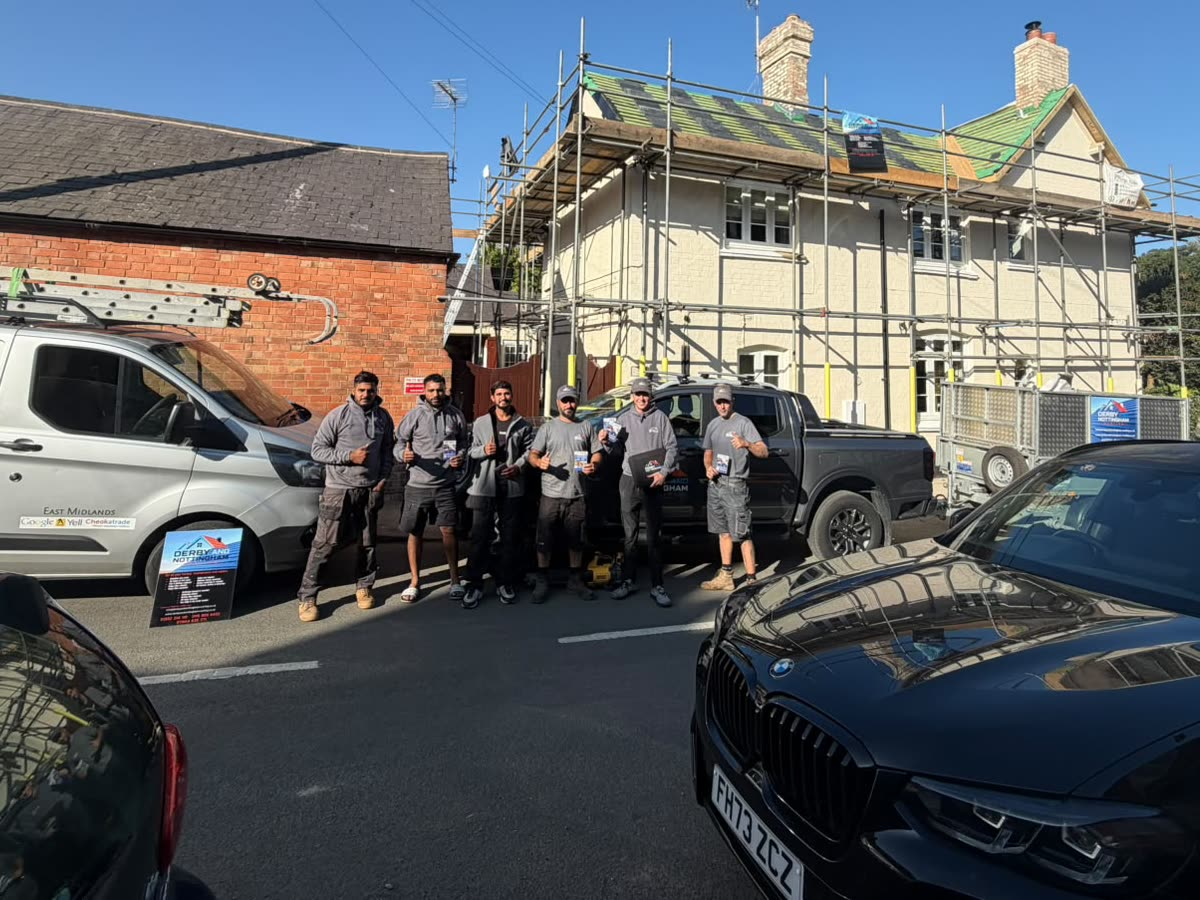
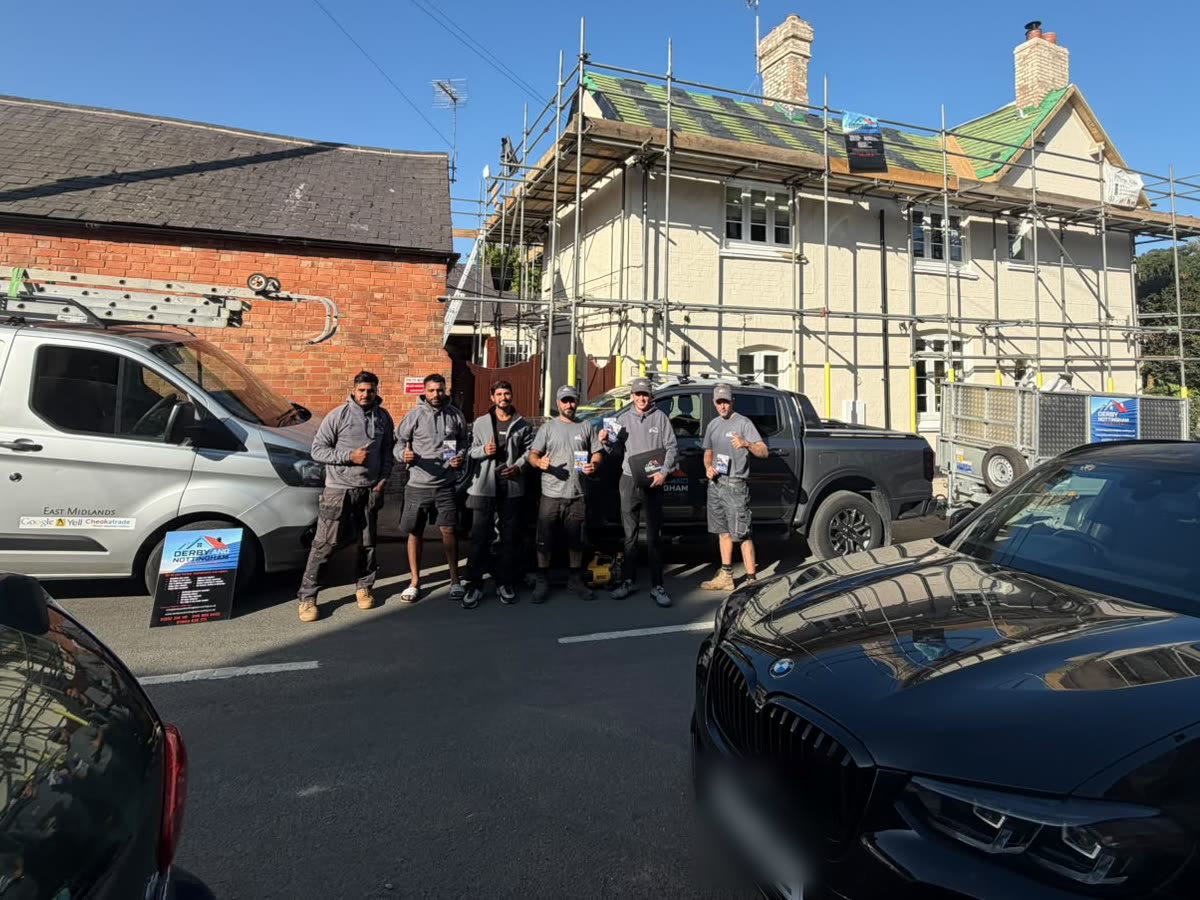
D&N: blur the plate in team.jpg, three new LP gallery photos
Source side of the deploy commits. lp.config.js gallery now points at
work-hip / work-drone / work-ridge, cropped 4:3 by hand from the portrait
originals in assets/.

Changed region(s): [[0.555, 0.84, 0.6783, 0.9956]]

diff --git a/Claude v3/Derby and Nottingham Roofing/lp/roof-check/index.html b/Claude v3/Derby and Nottingham Roofing/lp/roof-check/index.html
@@ -126,7 +126,7 @@ height="0" width="0" style="display:none;visibility:hidden"></iframe></noscript>
 </div></section>
 <section class="lp-sec"><div class="lp-wrap">
   <div class="lp-head-c"><span class="lp-eyebrow">Our work</span><h2>Recent roofs</h2></div>
-  <div class="lp-grid"><figure><img src="../../assets/img/crew-at-work.jpg" alt="Natural slate - our team on site" loading="lazy"><figcaption>Natural slate · our team on site</figcaption></figure><figure><img src="../../assets/img/craftsmanship.jpg" alt="New battens and membrane - full strip" loading="lazy"><figcaption>New battens &amp; membrane · full strip</figcaption></figure><figure><img src="../../assets/img/guarantee-2.jpg" alt="Job complete - written guarantee handed over" loading="lazy"><figcaption>Job complete · written guarantee handed over</figcaption></figure><figure><img src="../../assets/img/g1.jpg" alt="Full re-roof - natural slate" loading="lazy"><figcaption>Full re-roof · natural slate</figcaption></figure><figure><img src="../../assets/img/g5.jpg" alt="Clay tile - new ridge and hips" loading="lazy"><figcaption>Clay tile · new ridge &amp; hips</figcaption></figure><figure><img src="../../assets/img/work-1.jpg" alt="New slate roof - eaves and valley" loading="lazy"><figcaption>New slate roof · eaves &amp; valley</figcaption></figure></div>
+  <div class="lp-grid"><figure><img src="../../assets/img/crew-at-work.jpg" alt="Natural slate - our team on site" loading="lazy"><figcaption>Natural slate · our team on site</figcaption></figure><figure><img src="../../assets/img/work-hip.jpg" alt="Hipped roof - grey tiles and new ridge" loading="lazy"><figcaption>Hipped roof · grey tiles &amp; new ridge</figcaption></figure><figure><img src="../../assets/img/work-drone.jpg" alt="Completed re-roof - new clay tiles" loading="lazy"><figcaption>Completed re-roof · new clay tiles</figcaption></figure><figure><img src="../../assets/img/g1.jpg" alt="Full re-roof - natural slate" loading="lazy"><figcaption>Full re-roof · natural slate</figcaption></figure><figure><img src="../../assets/img/work-ridge.jpg" alt="Full re-roof - new tiles and ridge system" loading="lazy"><figcaption>Full re-roof · new tiles &amp; ridge system</figcaption></figure><figure><img src="../../assets/img/work-1.jpg" alt="New slate roof - eaves and valley" loading="lazy"><figcaption>New slate roof · eaves &amp; valley</figcaption></figure></div>
 </div></section>
 <section class="lp-sec lp-alt"><div class="lp-wrap lp-2col">
   <div class="lp-shot"><img src="../../assets/img/team.jpg" alt="The Derby &amp; Nottingham Roofing team on site" loading="lazy"></div>

diff --git a/Claude v3/Derby and Nottingham Roofing/lp/flat-roofing/index.html b/Claude v3/Derby and Nottingham Roofing/lp/flat-roofing/index.html
@@ -133,7 +133,7 @@ height="0" width="0" style="display:none;visibility:hidden"></iframe></noscript>
 </div></section>
 <section class="lp-sec"><div class="lp-wrap">
   <div class="lp-head-c"><span class="lp-eyebrow">Our work</span><h2>Recent roofs</h2></div>
-  <div class="lp-grid"><figure><img src="../../assets/img/crew-at-work.jpg" alt="Natural slate - our team on site" loading="lazy"><figcaption>Natural slate · our team on site</figcaption></figure><figure><img src="../../assets/img/craftsmanship.jpg" alt="New battens and membrane - full strip" loading="lazy"><figcaption>New battens &amp; membrane · full strip</figcaption></figure><figure><img src="../../assets/img/guarantee-2.jpg" alt="Job complete - written guarantee handed over" loading="lazy"><figcaption>Job complete · written guarantee handed over</figcaption></figure><figure><img src="../../assets/img/g1.jpg" alt="Full re-roof - natural slate" loading="lazy"><figcaption>Full re-roof · natural slate</figcaption></figure><figure><img src="../../assets/img/g5.jpg" alt="Clay tile - new ridge and hips" loading="lazy"><figcaption>Clay tile · new ridge &amp; hips</figcaption></figure><figure><img src="../../assets/img/work-1.jpg" alt="New slate roof - eaves and valley" loading="lazy"><figcaption>New slate roof · eaves &amp; valley</figcaption></figure></div>
+  <div class="lp-grid"><figure><img src="../../assets/img/crew-at-work.jpg" alt="Natural slate - our team on site" loading="lazy"><figcaption>Natural slate · our team on site</figcaption></figure><figure><img src="../../assets/img/work-hip.jpg" alt="Hipped roof - grey tiles and new ridge" loading="lazy"><figcaption>Hipped roof · grey tiles &amp; new ridge</figcaption></figure><figure><img src="../../assets/img/work-drone.jpg" alt="Completed re-roof - new clay tiles" loading="lazy"><figcaption>Completed re-roof · new clay tiles</figcaption></figure><figure><img src="../../assets/img/g1.jpg" alt="Full re-roof - natural slate" loading="lazy"><figcaption>Full re-roof · natural slate</figcaption></figure><figure><img src="../../assets/img/work-ridge.jpg" alt="Full re-roof - new tiles and ridge system" loading="lazy"><figcaption>Full re-roof · new tiles &amp; ridge system</figcaption></figure><figure><img src="../../assets/img/work-1.jpg" alt="New slate roof - eaves and valley" loading="lazy"><figcaption>New slate roof · eaves &amp; valley</figcaption></figure></div>
 </div></section>
 <section class="lp-sec lp-alt"><div class="lp-wrap">
   <div class="lp-head-c"><span class="lp-eyebrow">Don&rsquo;t take our word for it</span><h2>What customers say</h2></div>

diff --git a/Claude v3/Derby and Nottingham Roofing/lp/new-roof/index.html b/Claude v3/Derby and Nottingham Roofing/lp/new-roof/index.html
@@ -144,7 +144,7 @@ height="0" width="0" style="display:none;visibility:hidden"></iframe></noscript>
 </div></section>
 <section class="lp-sec"><div class="lp-wrap">
   <div class="lp-head-c"><span class="lp-eyebrow">Our work</span><h2>Recent roofs</h2></div>
-  <div class="lp-grid"><figure><img src="../../assets/img/crew-at-work.jpg" alt="Natural slate - our team on site" loading="lazy"><figcaption>Natural slate · our team on site</figcaption></figure><figure><img src="../../assets/img/craftsmanship.jpg" alt="New battens and membrane - full strip" loading="lazy"><figcaption>New battens &amp; membrane · full strip</figcaption></figure><figure><img src="../../assets/img/guarantee-2.jpg" alt="Job complete - written guarantee handed over" loading="lazy"><figcaption>Job complete · written guarantee handed over</figcaption></figure><figure><img src="../../assets/img/g1.jpg" alt="Full re-roof - natural slate" loading="lazy"><figcaption>Full re-roof · natural slate</figcaption></figure><figure><img src="../../assets/img/g5.jpg" alt="Clay tile - new ridge and hips" loading="lazy"><figcaption>Clay tile · new ridge &amp; hips</figcaption></figure><figure><img src="../../assets/img/work-1.jpg" alt="New slate roof - eaves and valley" loading="lazy"><figcaption>New slate roof · eaves &amp; valley</figcaption></figure></div>
+  <div class="lp-grid"><figure><img src="../../assets/img/crew-at-work.jpg" alt="Natural slate - our team on site" loading="lazy"><figcaption>Natural slate · our team on site</figcaption></figure><figure><img src="../../assets/img/work-hip.jpg" alt="Hipped roof - grey tiles and new ridge" loading="lazy"><figcaption>Hipped roof · grey tiles &amp; new ridge</figcaption></figure><figure><img src="../../assets/img/work-drone.jpg" alt="Completed re-roof - new clay tiles" loading="lazy"><figcaption>Completed re-roof · new clay tiles</figcaption></figure><figure><img src="../../assets/img/g1.jpg" alt="Full re-roof - natural slate" loading="lazy"><figcaption>Full re-roof · natural slate</figcaption></figure><figure><img src="../../assets/img/work-ridge.jpg" alt="Full re-roof - new tiles and ridge system" loading="lazy"><figcaption>Full re-roof · new tiles &amp; ridge system</figcaption></figure><figure><img src="../../assets/img/work-1.jpg" alt="New slate roof - eaves and valley" loading="lazy"><figcaption>New slate roof · eaves &amp; valley</figcaption></figure></div>
 </div></section>
 <section class="lp-sec lp-alt"><div class="lp-wrap">
   <div class="lp-head-c"><span class="lp-eyebrow">Don&rsquo;t take our word for it</span><h2>What customers say</h2></div>

diff --git a/Claude v3/Derby and Nottingham Roofing/lp/roof-repairs/index.html b/Claude v3/Derby and Nottingham Roofing/lp/roof-repairs/index.html
@@ -144,7 +144,7 @@ height="0" width="0" style="display:none;visibility:hidden"></iframe></noscript>
 </div></section>
 <section class="lp-sec"><div class="lp-wrap">
   <div class="lp-head-c"><span class="lp-eyebrow">Our work</span><h2>Recent roofs</h2></div>
-  <div class="lp-grid"><figure><img src="../../assets/img/crew-at-work.jpg" alt="Natural slate - our team on site" loading="lazy"><figcaption>Natural slate · our team on site</figcaption></figure><figure><img src="../../assets/img/craftsmanship.jpg" alt="New battens and membrane - full strip" loading="lazy"><figcaption>New battens &amp; membrane · full strip</figcaption></figure><figure><img src="../../assets/img/guarantee-2.jpg" alt="Job complete - written guarantee handed over" loading="lazy"><figcaption>Job complete · written guarantee handed over</figcaption></figure><figure><img src="../../assets/img/g1.jpg" alt="Full re-roof - natural slate" loading="lazy"><figcaption>Full re-roof · natural slate</figcaption></figure><figure><img src="../../assets/img/g5.jpg" alt="Clay tile - new ridge and hips" loading="lazy"><figcaption>Clay tile · new ridge &amp; hips</figcaption></figure><figure><img src="../../assets/img/work-1.jpg" alt="New slate roof - eaves and valley" loading="lazy"><figcaption>New slate roof · eaves &amp; valley</figcaption></figure></div>
+  <div class="lp-grid"><figure><img src="../../assets/img/crew-at-work.jpg" alt="Natural slate - our team on site" loading="lazy"><figcaption>Natural slate · our team on site</figcaption></figure><figure><img src="../../assets/img/work-hip.jpg" alt="Hipped roof - grey tiles and new ridge" loading="lazy"><figcaption>Hipped roof · grey tiles &amp; new ridge</figcaption></figure><figure><img src="../../assets/img/work-drone.jpg" alt="Completed re-roof - new clay tiles" loading="lazy"><figcaption>Completed re-roof · new clay tiles</figcaption></figure><figure><img src="../../assets/img/g1.jpg" alt="Full re-roof - natural slate" loading="lazy"><figcaption>Full re-roof · natural slate</figcaption></figure><figure><img src="../../assets/img/work-ridge.jpg" alt="Full re-roof - new tiles and ridge system" loading="lazy"><figcaption>Full re-roof · new tiles &amp; ridge system</figcaption></figure><figure><img src="../../assets/img/work-1.jpg" alt="New slate roof - eaves and valley" loading="lazy"><figcaption>New slate roof · eaves &amp; valley</figcaption></figure></div>
 </div></section>
 <section class="lp-sec lp-alt"><div class="lp-wrap">
   <div class="lp-head-c"><span class="lp-eyebrow">Don&rsquo;t take our word for it</span><h2>What customers say</h2></div>

diff --git a/Claude v3/Derby and Nottingham Roofing/lp.config.js b/Claude v3/Derby and Nottingham Roofing/lp.config.js
@@ -25,10 +25,10 @@ module.exports = {
   },
   gallery: [
     ["crew-at-work.jpg", "Natural slate · our team on site"],
-    ["craftsmanship.jpg", "New battens &amp; membrane · full strip"],
-    ["guarantee-2.jpg", "Job complete · written guarantee handed over"],
+    ["work-hip.jpg", "Hipped roof · grey tiles &amp; new ridge"],
+    ["work-drone.jpg", "Completed re-roof · new clay tiles"],
     ["g1.jpg", "Full re-roof · natural slate"],
-    ["g5.jpg", "Clay tile · new ridge &amp; hips"],
+    ["work-ridge.jpg", "Full re-roof · new tiles &amp; ridge system"],
     ["work-1.jpg", "New slate roof · eaves &amp; valley"],
   ],
   // Step 3 is a tap-list, not a typed postcode: steps 1-3 stay keyboard-free.
